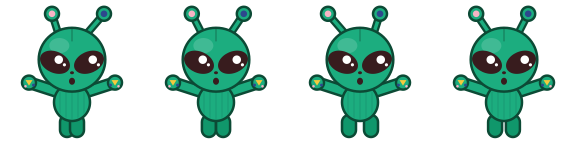
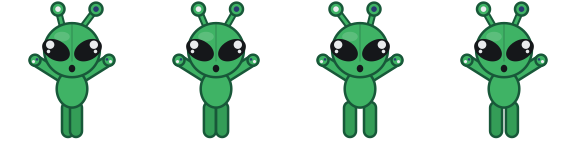
Redraw Aftonsparv skin after the full-size 34 cm plush
Brighter green fuzzy body without ribbing, big black slanted eyes with
grey dots on the outer side, a face seam, small "o" mouth, thin antennae
with disc tips, long droopy arms and long legs.

diff --git a/Tools/make-skin.swift b/Tools/make-skin.swift
@@ -146,150 +146,131 @@ func drawMochi(_ c: CGContext, _ p: Pose) {
     }
 }
 
-// MARK: - Aftonsparv (cartoon take on IKEA's green alien soft toy)
+// MARK: - Aftonsparv (cartoon take on IKEA's 34 cm green alien soft toy)
 
-let afBody = rgb(0x1FA06C)
-let afShade = rgb(0x178858)
-let afInk = rgb(0x0E3B28)
-let afEye = rgb(0x2A1517)
-let afPink = rgb(0xF4A3B8)
-let afNavy = rgb(0x22357A)
-let afYellow = rgb(0xF2C230)
+let afBody = rgb(0x36A852)
+let afShade = rgb(0x2C8F45)
+let afInk = rgb(0x15472B)
+let afEye = rgb(0x111214)
+let afDot = rgb(0xE4E6E8)
+let afNavy = rgb(0x1F2A5C)
 
 func fillStroke(_ c: CGContext, _ path: CGPath, fill: CGColor, width: CGFloat = 2.5) {
     c.setFillColor(fill); c.setStrokeColor(afInk); c.setLineWidth(width)
     c.addPath(path); c.drawPath(using: .fillStroke)
 }
 
-/// Big slanted alien eye. `angle` tilts the outer corner up.
-func alienEye(_ c: CGContext, at p: CGPoint, angle: CGFloat, eyes: Eyes, scale: CGFloat) {
-    let w = 28 * scale, h = 19 * scale
+/// One of the big black eyes. `side` is -1 (left) or 1 (right); outer corners tilt up and the
+/// grey dots sit on the outer side, like the toy's embroidery.
+func alienEye(_ c: CGContext, at p: CGPoint, side: CGFloat, eyes: Eyes, scale: CGFloat) {
+    let w = 27 * scale, h = 18 * scale
+    let oval = CGRect(x: -w / 2, y: -h / 2, width: w, height: h)
     c.saveGState()
     c.translateBy(x: p.x, y: p.y)
-    c.rotate(by: angle)
+    c.rotate(by: side * 0.5)
     c.setFillColor(afEye)
     switch eyes {
     case .open, .wide:
-        c.fillEllipse(in: CGRect(x: -w / 2, y: -h / 2, width: w, height: h))
+        c.fillEllipse(in: oval)
+        c.setFillColor(afDot)
+        let r = (eyes == .wide ? 3.8 : 3.3) * scale
+        c.fillEllipse(in: CGRect(x: side * w * 0.26 - r, y: h * 0.1 - r, width: r * 2, height: r * 2))
+        c.fillEllipse(in: CGRect(x: side * w * 0.2 - 1.8, y: -h * 0.24 - 1.8, width: 3.6, height: 3.6))
     case .half:
-        c.fillEllipse(in: CGRect(x: -w / 2, y: -h / 4, width: w, height: h / 2))
+        c.clip(to: CGRect(x: -w / 2, y: -h / 2, width: w, height: h * 0.5))
+        c.fillEllipse(in: oval)
     case .blink:
-        c.fillEllipse(in: CGRect(x: -w / 2, y: -1.5, width: w, height: 3))
+        c.fillEllipse(in: CGRect(x: -w / 2, y: -h * 0.2, width: w, height: 3.5))
     case .sleep:
         let lid = CGMutablePath()
-        lid.move(to: CGPoint(x: -w * 0.42, y: 1))
-        lid.addQuadCurve(to: CGPoint(x: w * 0.42, y: 1), control: CGPoint(x: 0, y: -h * 0.45))
+        lid.move(to: CGPoint(x: -w * 0.45, y: -h * 0.05))
+        lid.addQuadCurve(to: CGPoint(x: w * 0.45, y: -h * 0.05), control: CGPoint(x: 0, y: -h * 0.6))
         c.setStrokeColor(afEye); c.setLineWidth(3); c.setLineCap(.round)
         c.addPath(lid); c.strokePath()
     }
     c.restoreGState()
-    if eyes == .open || eyes == .wide {
-        c.setFillColor(rgb(0xFFFFFF))
-        let r = (eyes == .wide ? 3.8 : 3.2) * scale
-        c.fillEllipse(in: CGRect(x: p.x + w * 0.12 - r, y: p.y + h * 0.12 - r, width: r * 2, height: r * 2))
-        c.fillEllipse(in: CGRect(x: p.x + w * 0.3 - 1.6, y: p.y - h * 0.12 - 1.6, width: 3.2, height: 3.2))
-    }
 }
 
 func drawAftonsparv(_ c: CGContext, _ p: Pose) {
     let cx = size / 2
     let held = p.swing != nil
-    let base: CGFloat = (held ? 11 : 14) + p.dy
+    let base: CGFloat = (held ? 10 : 12) + p.dy
     var gesture: CGFloat = 0
     if case .open(let a) = p.mouth { gesture = a }
 
     if !held {
-        let sw = 52 - p.dy * 2
+        let sw = 46 - p.dy * 2
         c.setFillColor(rgb(0x000000, 0.16))
-        c.fillEllipse(in: CGRect(x: cx - sw / 2, y: 8, width: sw, height: 9))
+        c.fillEllipse(in: CGRect(x: cx - sw / 2, y: 7, width: sw, height: 8))
     }
 
-    // Legs
+    // Long straight legs, side by side
     for side: CGFloat in [-1, 1] {
-        var r = CGRect(x: cx + side * 8 - 7, y: base, width: 14, height: 22)
-        if let s = p.swing { r.origin.x += s * 3 * side; r.origin.y -= 4 }
-        fillStroke(c, CGPath(roundedRect: r, cornerWidth: 7, cornerHeight: 7, transform: nil), fill: afShade)
+        var r = CGRect(x: cx + side * 7 - 6, y: base, width: 12, height: 32 * p.sy)
+        if let s = p.swing { r.origin.x += s * 3 * side; r.origin.y -= 3 }
+        fillStroke(c, CGPath(roundedRect: r, cornerWidth: 6, cornerHeight: 6, transform: nil), fill: afShade)
     }
 
-    let bw = 40 * p.sx, bh = 34 * p.sy
-    let body = CGRect(x: cx - bw / 2, y: base + 12, width: bw, height: bh)
+    let torso = CGRect(x: cx - 17 * p.sx, y: base + 24 * p.sy, width: 34 * p.sx, height: 34 * p.sy)
 
-    // Arms sit behind the body, hands out to the sides (up by the head while held)
-    let shoulderY = body.maxY - 9
+    // Long droopy arms behind the torso, with dotted tips
     for side: CGFloat in [-1, 1] {
-        let shoulder = CGPoint(x: cx + side * (bw / 2 - 6), y: shoulderY)
-        var hand = CGPoint(x: cx + side * 31, y: shoulderY - 9)
-        if held { hand = CGPoint(x: cx + side * 43, y: shoulderY + 10) }
-        if side > 0 { hand.y += gesture * 7 }
-        strokeLine(c, [shoulder, hand], width: 13, color: afInk)
-        strokeLine(c, [shoulder, hand], width: 8, color: afBody)
-        let palm = CGRect(x: hand.x - 7, y: hand.y - 7, width: 14, height: 14)
-        fillStroke(c, CGPath(ellipseIn: palm, transform: nil), fill: afBody)
-        // the little printed pattern on its hands
-        let tri = CGMutablePath()
-        tri.move(to: CGPoint(x: hand.x - 3.5, y: hand.y + 2.5))
-        tri.addLine(to: CGPoint(x: hand.x + 3.5, y: hand.y + 2.5))
-        tri.addLine(to: CGPoint(x: hand.x, y: hand.y - 3))
-        tri.closeSubpath()
-        c.setFillColor(afYellow); c.addPath(tri); c.fillPath()
-        c.setFillColor(afNavy); c.fillEllipse(in: CGRect(x: hand.x - side * 4.5 - 1.5, y: hand.y - 4, width: 3, height: 3))
-        c.setFillColor(afPink); c.fillEllipse(in: CGRect(x: hand.x + side * 3.5 - 1.3, y: hand.y - 5, width: 2.6, height: 2.6))
-    }
-
-    // Body, with the ribbed fabric
-    fillStroke(c, CGPath(ellipseIn: body, transform: nil), fill: afBody)
-    c.saveGState()
-    c.addEllipse(in: body.insetBy(dx: 2, dy: 2)); c.clip()
-    for i in -2...2 {
-        let x = cx + CGFloat(i) * 6
-        strokeLine(c, [CGPoint(x: x, y: body.minY), CGPoint(x: x, y: body.maxY)], width: 1, color: rgb(0x0E3B28, 0.18))
-    }
-    c.restoreGState()
-
-    // Head
-    let hw = 74 * p.sx, hh = 58 * p.sy
-    let head = CGRect(x: cx - hw / 2, y: body.maxY - 8, width: hw, height: hh)
-
-    // Antennae (behind the head): pink tip on the left, navy on the right
-    for (side, dot) in [(CGFloat(-1), afPink), (1, afNavy)] {
-        let root = CGPoint(x: cx + side * 13, y: head.maxY - 8)
-        let tip = CGPoint(x: cx + side * 26 + p.sway * 3, y: head.maxY + 14)
-        strokeLine(c, [root, tip], width: 8, color: afInk)
-        strokeLine(c, [root, tip], width: 3.5, color: afBody)
-        fillStroke(c, CGPath(ellipseIn: CGRect(x: tip.x - 7, y: tip.y - 7, width: 14, height: 14), transform: nil),
+        let shoulder = CGPoint(x: cx + side * 11 * p.sx, y: torso.maxY - 7)
+        var hand = CGPoint(x: cx + side * 31, y: torso.minY + 4)
+        if held { hand = CGPoint(x: cx + side * 37, y: torso.maxY + 10) }
+        if side > 0 { hand.y += gesture * 9; hand.x += gesture * 2 }
+        strokeLine(c, [shoulder, hand], width: 12.5, color: afInk)
+        strokeLine(c, [shoulder, hand], width: 7.5, color: afBody)
+        fillStroke(c, CGPath(ellipseIn: CGRect(x: hand.x - 5.5, y: hand.y - 5.5, width: 11, height: 11), transform: nil),
                    fill: afBody)
-        c.setFillColor(dot); c.fillEllipse(in: CGRect(x: tip.x - 3.3, y: tip.y - 3.3, width: 6.6, height: 6.6))
+        c.setFillColor(afDot); c.fillEllipse(in: CGRect(x: hand.x + side * 1.5 - 1.6, y: hand.y - 3, width: 3.2, height: 3.2))
+        c.setFillColor(afNavy); c.fillEllipse(in: CGRect(x: hand.x - side * 2 - 1.3, y: hand.y - 0.5, width: 2.6, height: 2.6))
+    }
+
+    fillStroke(c, CGPath(ellipseIn: torso, transform: nil), fill: afBody)
+
+    // Head (stretches less than the body so the face stays round)
+    let hw = 62 * p.sx, hh = 52 * (1 + (p.sy - 1) * 0.4)
+    let head = CGRect(x: cx - hw / 2, y: torso.maxY - 7, width: hw, height: hh)
+
+    // Antennae with disc tips: white dot on the left, navy on the right
+    for (side, dot) in [(CGFloat(-1), afDot), (1, afNavy)] {
+        let root = CGPoint(x: cx + side * 9, y: head.maxY - 6)
+        let tip = CGPoint(x: cx + side * 19 + p.sway * 2.5, y: head.maxY + (held ? 14 : 15))
+        strokeLine(c, [root, tip], width: 7, color: afInk)
+        strokeLine(c, [root, tip], width: 3, color: afBody)
+        fillStroke(c, CGPath(ellipseIn: CGRect(x: tip.x - 6.5, y: tip.y - 6.5, width: 13, height: 13), transform: nil),
+                   fill: afBody)
+        c.setFillColor(dot); c.fillEllipse(in: CGRect(x: tip.x - 2.8, y: tip.y - 2.8, width: 5.6, height: 5.6))
     }
 
     fillStroke(c, CGPath(ellipseIn: head, transform: nil), fill: afBody)
-    c.setFillColor(rgb(0xFFFFFF, 0.16))
-    c.fillEllipse(in: CGRect(x: head.minX + hw * 0.16, y: head.minY + hh * 0.6, width: hw * 0.3, height: hh * 0.24))
-    // seam down the top of the head
-    strokeLine(c, [CGPoint(x: cx, y: head.maxY - 1), CGPoint(x: cx, y: head.maxY - 13)], width: 1.5, color: rgb(0x0E3B28, 0.4))
+    c.setFillColor(rgb(0xFFFFFF, 0.15))
+    c.fillEllipse(in: CGRect(x: head.minX + hw * 0.18, y: head.minY + hh * 0.66, width: hw * 0.28, height: hh * 0.18))
+    // the seam down the middle of the face
+    strokeLine(c, [CGPoint(x: cx, y: head.maxY - 1), CGPoint(x: cx, y: head.minY + hh * 0.3)],
+               width: 1.4, color: rgb(0x15472B, 0.32))
 
-    // Face: big slanted eyes, tiny nose, a mouth only when it talks
-    let ey = head.minY + hh * 0.46
-    let eyeScale: CGFloat = p.eyes == .wide ? 1.12 : 1
-    alienEye(c, at: CGPoint(x: cx - 17 * max(p.sx, 1), y: ey), angle: -0.42, eyes: p.eyes, scale: eyeScale)
-    alienEye(c, at: CGPoint(x: cx + 17 * max(p.sx, 1), y: ey), angle: 0.42, eyes: p.eyes, scale: eyeScale)
-    c.setFillColor(afEye)
-    c.fillEllipse(in: CGRect(x: cx - 2, y: ey - 12, width: 4, height: 3))
-    let my = ey - 19
-    switch p.mouth {
-    case .open(let a) where a > 0.05:
-        let h = 2 + 7 * a
-        c.fillEllipse(in: CGRect(x: cx - 5, y: my - h / 2, width: 10, height: h))
-        if a > 0.5 {
-            c.setFillColor(afPink); c.fillEllipse(in: CGRect(x: cx - 3, y: my - h / 2 + 0.5, width: 6, height: h * 0.4))
-        }
-    case .oh:
-        c.fillEllipse(in: CGRect(x: cx - 3, y: my - 3.5, width: 6, height: 7))
-    default:
-        break
+    let ey = head.minY + hh * 0.5
+    let eyeScale: CGFloat = p.eyes == .wide ? 1.1 : 1
+    for side: CGFloat in [-1, 1] {
+        alienEye(c, at: CGPoint(x: cx + side * 16 * max(p.sx, 1), y: ey), side: side, eyes: p.eyes, scale: eyeScale)
     }
 
+    // Small dark "o" mouth that opens when it talks
+    let my = head.minY + hh * 0.16
+    var mw: CGFloat = 4.5, mh: CGFloat = 4
+    switch p.mouth {
+    case .open(let a): mw = 5 + 3 * a; mh = 3.5 + 6 * a
+    case .oh: mw = 6.5; mh = 7.5
+    case .sleep: mw = 3.5; mh = 2.5
+    case .smile: break
+    }
+    c.setFillColor(afEye)
+    c.fillEllipse(in: CGRect(x: cx - mw / 2, y: my - mh / 2, width: mw, height: mh))
+
     if let phase = p.zPhase {
-        drawZs(c, phase: phase, at: CGPoint(x: cx + 33, y: head.maxY - 22), color: 0x0E3B28)
+        drawZs(c, phase: phase, at: CGPoint(x: cx + 28, y: head.maxY - 18), color: 0x15472B)
     }
 }
 
